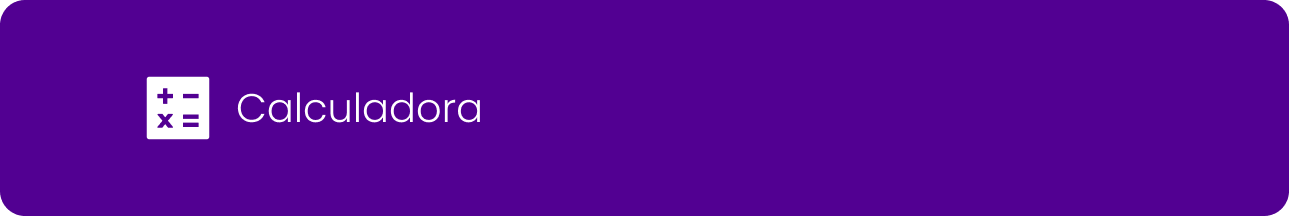
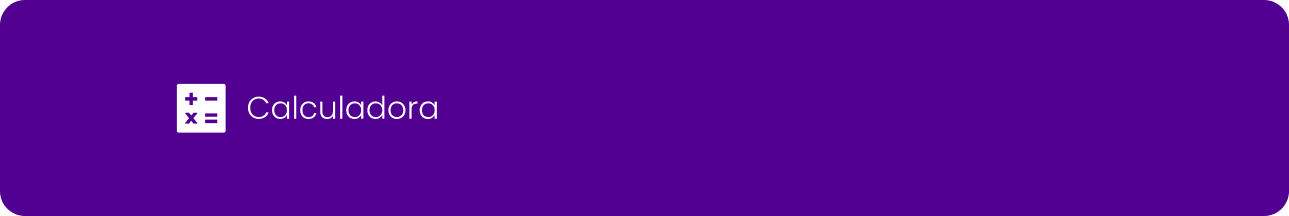
Página calculadora

Changed region(s): [[0.0931, 0.3333, 0.3724, 0.6667]]

diff --git a/src/pages/calculadora.html b/src/pages/calculadora.html
@@ -1,0 +1,89 @@
+<!DOCTYPE html>
+<html lang="pt-BR">
+
+<head>
+    <meta charset="UTF-8">
+    <meta http-equiv="X-UA-Compatible" content="IE=edge">
+    <meta name="viewport" content="width=device-width, initial-scale=1.0">
+    <title>Calculadora</title>
+    <link rel="stylesheet" href="../../css/index.css">
+</head>
+<header>
+    <div class="division">
+        <a href="../../index.html#home" id="logo">portfólio</a>
+    </div>
+    <div class="division">
+        <ul class="flex">
+            <li> <a href="../../index.html#home">home</a></li>
+            <li> <a href="../../index.html#projetos">projetos</a></li>
+            <li> <a href="../../index.html#cursos">cursos</a></li>
+            <li> <a href="../../index.html#perfil">perfil</a></li>
+        </ul>
+    </div>
+    <div class="division"></div>
+</header>
+
+<body>
+    <section class="container contDecorated project-container" id="calculadora">
+        <div class="body-page">
+            <div class="banner"></div>
+            <div class="intro">
+                <div>
+                    <h2>Sobre</h2>
+                    <p>Desenvolvi este projeto para exercitar meus conhecimentos em HTML, CSS, JavaScript e React. Implementei uma calculadora online com o auxílio do professor Leonardo Leitão, no curso livre "Web Moderno completo com JavaScript".</p>
+                    <h2>Como utilizar o projeto</h2>
+                    <p>Para utilizar a calculadora, você deve ter os seguintes softwares instalados em sua máquina:</p>
+                    <ul>
+                        <li>Node</li>
+                        <li>NPM</li>
+                    </ul>
+                </div>
+
+                <img src="../imgs/project-imgs/gooday/casual-life-3d.png" alt="Imagem Gooday">
+                <!-- ALTERAR IMAGEM -->
+
+            </div>
+
+        </div>
+
+        </div>
+    </section>
+    <section class="contBlackAuto container project-container">
+        <div class="body-page">
+            <div class="navigate">
+                <h2>Projeto</h2>
+                <img src="../imgs/project-imgs/calculadora/calculadora1.png" alt="Imagem projeto">
+            </div>
+            <div class="code-area">
+                <h2>Instalação</h2>
+                <div class="description-code-area">
+                    <span>Clonagem do projeto</span>
+                    <textarea readonly>git clone https://github.com/FredNogueiraDev/projeto_calculadora.git</textarea>
+                    <span>Instalação das dependências:</span>
+                    <textarea readonly>npm install</textarea>
+                    <span>Inicialização do projeto:</span>
+                    <textarea readonly>npm start</textarea>
+                    <span>A página será aberta automáticamente no navegador.</span>
+                </div>
+            </div>
+        </div>
+    </section>
+</body>
+
+<section class="contDecorated">
+    <footer>
+        <ul class="flex">
+            <ul class="flex">
+                <li> <a href="../../index.html#home">home</a></li>
+                <li> <a href="../../index.html#projetos">projetos</a></li>
+                <li> <a href="../../index.html#cursos">cursos</a></li>
+                <li> <a href="../../index.html#perfil">perfil</a></li>
+            </ul>
+        </ul>
+        <hr>
+        </hr>
+        <p>Frederico Nogueira | <b>Meu portfólio pessoal</b> &copy; 2023</p>
+    </footer>
+</section>
+
+</html>

diff --git a/css/pages.css b/css/pages.css
@@ -180,3 +180,9 @@ textarea {
   background-position: center center;
   background-repeat: no-repeat;
 }
+
+#calculadora .body-page .banner {
+  background: url("../src/imgs/banners/calculadora.png");
+  background-position: center center;
+  background-repeat: no-repeat;
+}
